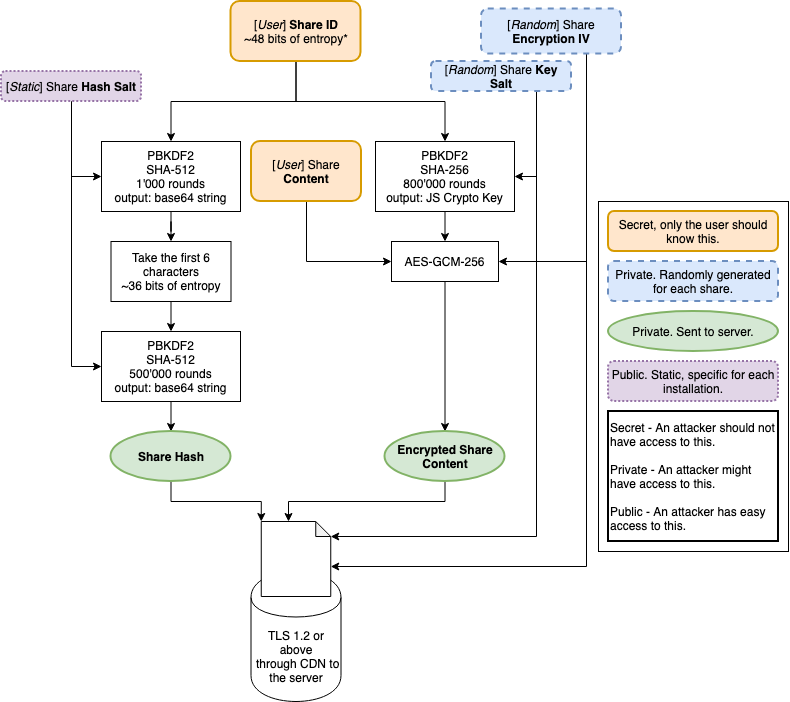
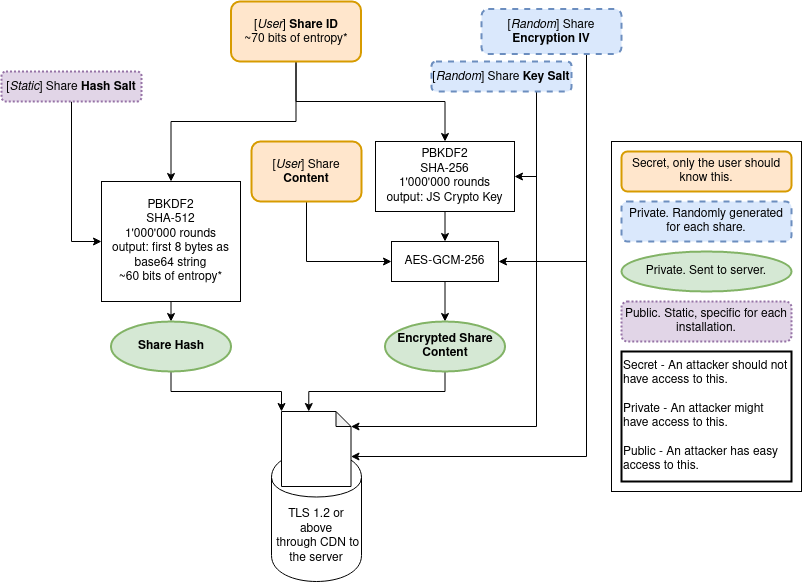
Updated encryption docs

Changed region(s): [[0.0, 0.0, 1.0, 1.0], [0.6684, 0.433, 0.6987, 0.4639], [0.0911, 0.2474, 0.1215, 0.2784]]

diff --git a/docs/Encryption.md b/docs/Encryption.md
@@ -12,9 +12,9 @@ Note that, despite our best efforts, it's impossible to guarantee perfect securi
 
 When a user creates a Share the site generates `4` pairs of `3` random characters picked from a list of `60` alphanumeric entries (i.e.: `Il2.exa.mpl.ejR`); this is the default Share ID; such Share ID can be modified or regenerated by the user - although the default one gives more than `2e+21` possible entries the user could potentially make it simpler.
 
-We first generate a Share Hash by taking the Share ID and using `1'000` rounds of `PBKDF2` with `SHA-512` and the Hash Salt as salt using `crypto.subtle.deriveBits` to generate a partial hash; we then take `6` chars of the `base64` encoded version (`64^6 = ~6.9e10` possibilities) of such partial hash and hash that again this time using `500'000` rounds of `PBKDF2` with `SHA-512` and the Hash Salt as salt using `crypto.subtle.deriveBits` - this is the Share Hash.
+We first generate a Share Hash by taking the `"hashgen::" + ShareID + "::salty"` and using `1'000'000` rounds of `PBKDF2` with `SHA-512` and the Hash Salt as salt using `crypto.subtle.deriveBits`, we then take the first 8 bytes (~`1.8e+19` combinations) and convert them to string using base64 - this is the Share Hash.
 
-To encrypt the Share Content we first need to generate a Share Key. Such Share Key is generated by taking the Share ID, applying `800'000` rounds of `PBKDF2` with `SHA-256` and adding a randomly generated Key Salt. We then take the Share Content and encrypt it using `AES-GCM-256`, the Share Key, and a randomly generated Encryption IV - this will produce the Encrypted Share Content.
+To encrypt the Share Content we first need to generate a Share Key. Such Share Key is generated by taking the `"keyder::" + ShareID + "::salted"`, applying `1'000'000` rounds of `PBKDF2` with `SHA-256` and adding a randomly generated Key Salt. We then take the Share Content and encrypt it using `AES-GCM-256`, the Share Key, and a randomly generated Encryption IV - this will produce the Encrypted Share Content.
 
 The generated Share Hash, Encrypted Share Content, Encryption IV, Key Salt, Expiration Time, and Expiration Views are then sent to the server over a `TLS 1.2` or better connection before being stored in a Redis database.
 
